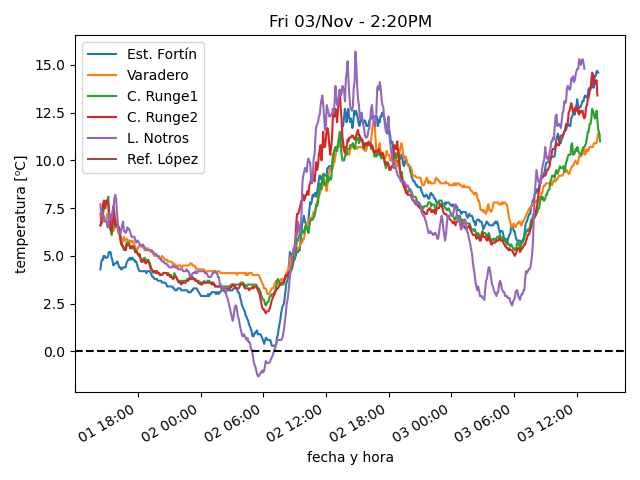
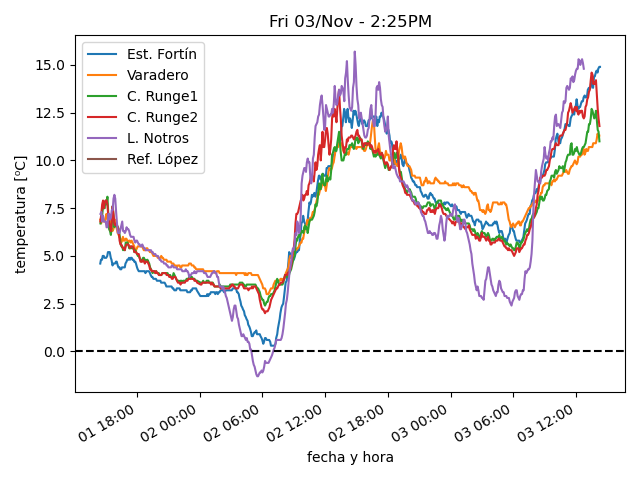
actualiza datos

diff --git a/estaciones/estacion4.html b/estaciones/estacion4.html
@@ -18,32 +18,32 @@
     </tr>
     <tr>
      <td class="stats_data">
-      1:59PM
+      2:14PM
      </td>
     </tr>
     <tr>
      <td class="stats_data">
-      13.4⁰C
+      11.8⁰C
      </td>
     </tr>
     <tr>
      <td class="stats_data">
-      3.2⁰C
+      2.9⁰C
      </td>
     </tr>
     <tr>
      <td class="stats_data">
-      50.3%
+      54.3%
      </td>
     </tr>
     <tr>
      <td class="stats_data">
-      1019.03hPa
+      1018.93hPa
      </td>
     </tr>
     <tr>
      <td class="stats_data">
-      3.1/4.6 km/hr SSW
+      2.7/4.3 km/hr WSW
      </td>
     </tr>
     <tr>
@@ -53,12 +53,12 @@
     </tr>
     <tr>
      <td class="stats_data">
-      4.0
+      5.0
      </td>
     </tr>
     <tr>
      <td class="stats_data">
-      492.0 W/m²
+      553.0 W/m²
      </td>
     </tr>
    </tbody>

diff --git a/estaciones/estacion1.html b/estaciones/estacion1.html
@@ -18,22 +18,22 @@
     </tr>
     <tr>
      <td class="stats_data">
-      2:04PM
+      2:18PM
      </td>
     </tr>
     <tr>
      <td class="stats_data">
-      14.6⁰C
+      14.9⁰C
      </td>
     </tr>
     <tr>
      <td class="stats_data">
-      2.6⁰C
+      2.4⁰C
      </td>
     </tr>
     <tr>
      <td class="stats_data">
-      44.3%
+      43.0%
      </td>
     </tr>
     <tr>
@@ -43,7 +43,7 @@
     </tr>
     <tr>
      <td class="stats_data">
-      12.2/26.8 km/hr W
+      16.9/24.9 km/hr WNW
      </td>
     </tr>
     <tr>
@@ -53,12 +53,12 @@
     </tr>
     <tr>
      <td class="stats_data">
-      7.0
+      6.5
      </td>
     </tr>
     <tr>
      <td class="stats_data">
-      930.0 W/m²
+      888.0 W/m²
      </td>
     </tr>
    </tbody>
